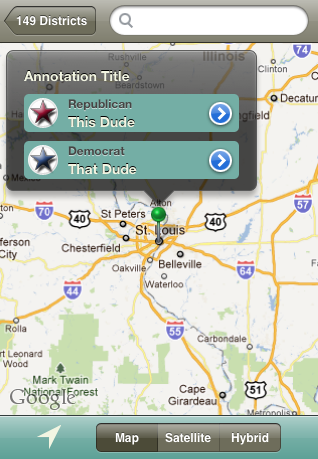
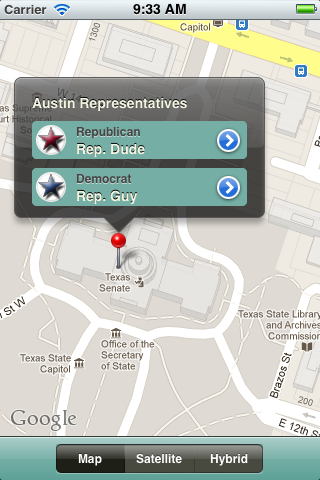
Updated demo and screenshot to be more "representative" (get it?)

diff --git a/CalloutDemo/CalloutDemo/ViewController.m b/CalloutDemo/CalloutDemo/ViewController.m
@@ -113,6 +113,13 @@
 
 #pragma mark - Boilerplate Stuff
 
+- (IBAction)changeMapType:(id)sender {
+    if (sender && [sender respondsToSelector:@selector(selectedSegmentIndex)]) {
+        NSInteger index = [sender selectedSegmentIndex];
+        self.mapView.mapType = index;
+    }
+}
+
 - (BOOL)shouldAutorotateToInterfaceOrientation:(UIInterfaceOrientation)interfaceOrientation
 {
     return YES;
@@ -121,7 +128,7 @@
 - (void)didReceiveMemoryWarning
 {
     [super didReceiveMemoryWarning];
-    if (self.mapView.annotations)
+    if (self.isViewLoaded && self.mapView && self.mapView.annotations)
         [_mapView removeAnnotations:_mapView.annotations];
 }
 

diff --git a/CalloutDemo/CalloutDemo/ViewController.h b/CalloutDemo/CalloutDemo/ViewController.h
@@ -15,4 +15,5 @@
 
 @interface ViewController : UIViewController <MKMapViewDelegate>
 @property (nonatomic,retain) IBOutlet MKMapView *mapView;
+- (IBAction)changeMapType:(id)sender;
 @end
